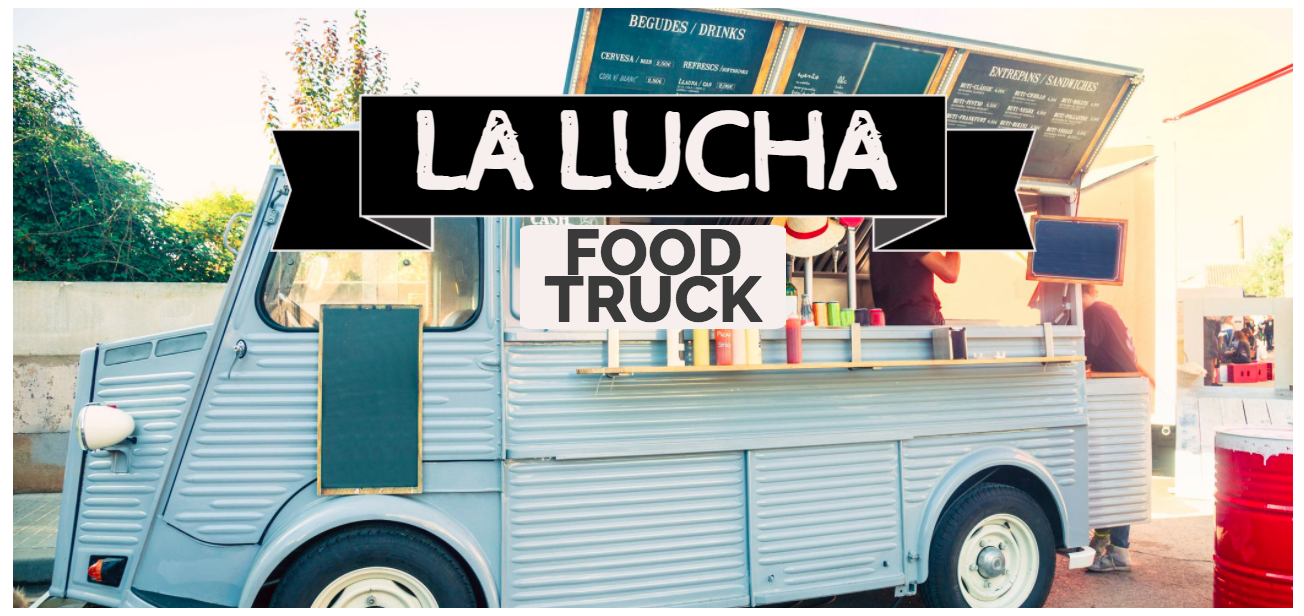
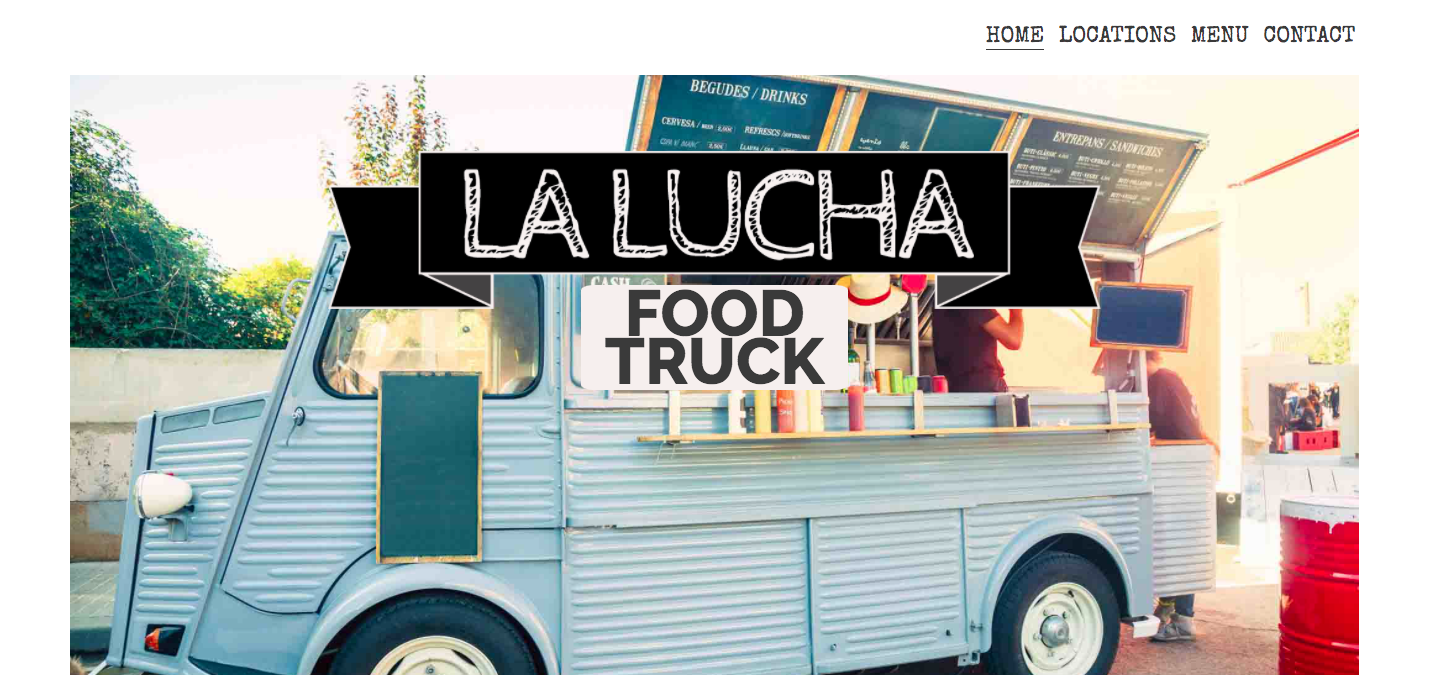
Resolved the errors in contact page shown by W3 validator, as well as a missing % in the style sheet.

diff --git a/contact.html b/contact.html
@@ -53,21 +53,21 @@
     <section id="contact-about">
         <form id="contact-form" class="page-description" action="form-dump.html">
             <h2>Contact us!</h2>
-            <label for="fname" id="field-label">First Name:</label>
+            <label for="fname" class="field-label">First Name:</label>
             <br>
-            <input type=“text” name=“fname” id="input-field" required>
+            <input type="text" id="fname" class="input-field" required>
             <br>
-            <label for="lname" id="field-label">Surname:</label>
+            <label for="lname" class="field-label">Surname:</label>
             <br>
-            <input type=“text” name=“lname” id="input-field" required>
+            <input type="text" id="lname" class="input-field" required>
             <br>
-            <label for="email" id="field-label">Email:</label>
+            <label for="email" class="field-label">Email:</label>
             <br>
-            <input type=“email” name=“email” id="input-field" required>
+            <input type="email" id="email" class="input-field" required>
             <br>
-            <label for="contact-message" id="field-label">Additional Message:</label>
+            <label for="contact-message" class="field-label">Additional Message:</label>
             <br>
-            <textarea name="contact-message" id="input-field" aria-label="Your message goes here" rows="5"></textarea>
+            <textarea id="contact-message" class="input-field" aria-label="Your message goes here" rows="5"></textarea>
             <br>
             <input type="submit" id="submit-button" value="submit" aria-label="Button that sends the form">
         </form>

diff --git a/assets/css/style.css b/assets/css/style.css
@@ -272,14 +272,14 @@ hr{
 }
 
 /* Form styling */
-#input-field{
+.input-field{
     width:100%;
     height:30px;
     margin: 5px 0 15px 0;
     border: 1px solid #3A3A3A;
     border-radius:5px;
 }
-#input-field:hover{
+.input-field:hover{
     border-color:#ff19a7;
 }
 #submit-button{
@@ -369,7 +369,7 @@ footer{
         width:100%;
         height:350px;
         object-fit:cover;
-        object-position: 100% 10;    
+        object-position: 100% 50%;    
     }
 
     /* Locations panels for places & dates */

diff --git a/README.md b/README.md
@@ -50,6 +50,15 @@ Last but not least, the current menu has been provided for the current items on 
 
 ![What's on the menu](/assets/images-readme/menu-dishes.png)
 
+#### Contact Page:
+Once again I have kept the design simplistic, repeating the big bold banner as seen on the Locations & Contact pages. There is not a lot of content on the page, rather just a form so that custoers can reach out to the Food Truck team.
+
+![Contact form & accompanying image](/assets/images-readme/contact-page.png)
+
+A 'form dump' page has also been included upon the instruction of a fellow student who informed me that it was necessary if a form was added to the project. The form-dump page appears as follows...
+
+![Contact form, form dump page](/assets/images-readme/contact-formdump.png)
+
 #### Social Links:
 Links to the companies social media pages can be found on the bottom of each page, & each one will take the user to the social media platform being references.
 
